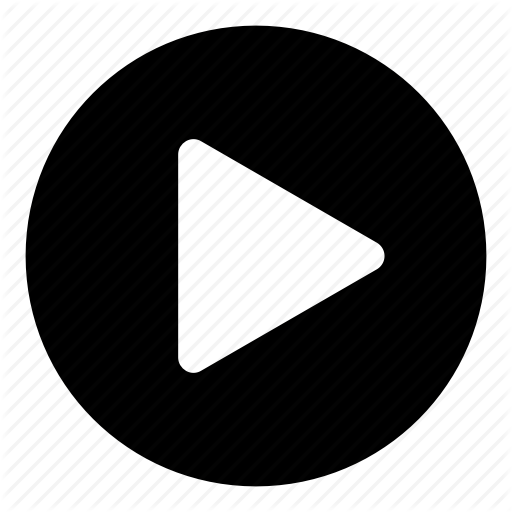
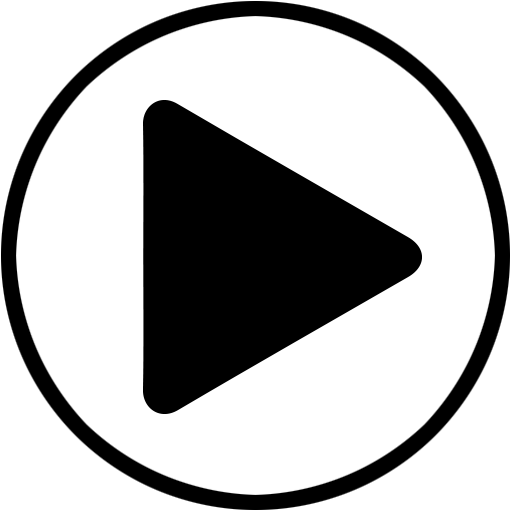
minor update

diff --git a/fxapplication/src/main/java/controller/GameOverlayController.java b/fxapplication/src/main/java/controller/GameOverlayController.java
@@ -195,7 +195,7 @@ class GameOverlayController {
         if(!newValue){
             spDownloadGame.setVisible(false);
             lblDownloadSpeed.setVisible(false);
-            ivDownloadGame.setImage(new Image(ClassLoader.getSystemResource("download_game.png").toString(), true));
+            ivDownloadGame.setImage(new Image(ClassLoader.getSystemResource("serverdownload.png").toString(), true));
         } else {
             ivDownloadGame.setImage(new Image(ClassLoader.getSystemResource("close.png").toString(), true));
         }
@@ -204,18 +204,34 @@ class GameOverlayController {
     private void mouseEntered(MouseEvent event){
         if((event.getTarget().equals(ivConnectServer) && game.isConnectDirect()) || (event.getTarget().equals(ivStartServer) && game.isOpenServer())
                 || event.getTarget().equals(ivRunGame) || event.getTarget().equals(ivDownloadGame) || event.getTarget().equals(ivOpenExplorer)) {
-            ((ImageView) event.getTarget()).setStyle("-fx-effect: dropshadow(gaussian, gray, 12.5, 0.15, 0, 0);");
-            ((ImageView) event.getTarget()).fitHeightProperty().bind(gpGameTile.heightProperty().divide(4.9));
-            ((ImageView) event.getTarget()).fitWidthProperty().bind(gpGameTile.heightProperty().divide(4.9));
+            ImageView imageView = (ImageView)event.getTarget();
+            if(imageView.equals(ivRunGame))
+                imageView.setImage(new Image(ClassLoader.getSystemResource("play_mo.png").toString(), true));
+            else if(imageView.equals(ivDownloadGame))
+                imageView.setImage(new Image(ClassLoader.getSystemResource("serverdownload_mo.png").toString(), true));
+            else if(imageView.equals(ivOpenExplorer))
+                imageView.setImage(new Image(ClassLoader.getSystemResource("folder_mo.png").toString(), true));
+            else if(imageView.equals(ivConnectServer))
+                imageView.setImage(new Image(ClassLoader.getSystemResource("serverconnect_mo.png").toString(), true));
+            else if(imageView.equals(ivStartServer))
+                imageView.setImage(new Image(ClassLoader.getSystemResource("serverplay_mo.png").toString(), true));
         }
     }
 
     private void mouseExited(MouseEvent event){
         if((event.getTarget().equals(ivConnectServer) && game.isConnectDirect()) || (event.getTarget().equals(ivStartServer) && game.isOpenServer())
                 || event.getTarget().equals(ivRunGame) || event.getTarget().equals(ivDownloadGame) || event.getTarget().equals(ivOpenExplorer)) {
-            ((ImageView)event.getTarget()).setStyle("-fx-effect: null;");
-            ((ImageView)event.getTarget()).fitHeightProperty().bind(gpGameTile.heightProperty().divide(5));
-            ((ImageView) event.getTarget()).fitWidthProperty().bind(gpGameTile.heightProperty().divide(5));
+            ImageView imageView = (ImageView)event.getTarget();
+            if(imageView.equals(ivRunGame))
+                imageView.setImage(new Image(ClassLoader.getSystemResource("play.png").toString(), true));
+            else if(imageView.equals(ivDownloadGame))
+                imageView.setImage(new Image(ClassLoader.getSystemResource("serverdownload.png").toString(), true));
+            else if(imageView.equals(ivOpenExplorer))
+                imageView.setImage(new Image(ClassLoader.getSystemResource("folder.png").toString(), true));
+            else if(imageView.equals(ivConnectServer))
+                imageView.setImage(new Image(ClassLoader.getSystemResource("serverconnect.png").toString(), true));
+            else if(imageView.equals(ivStartServer))
+                imageView.setImage(new Image(ClassLoader.getSystemResource("serverplay.png").toString(), true));
         }
     }
 
